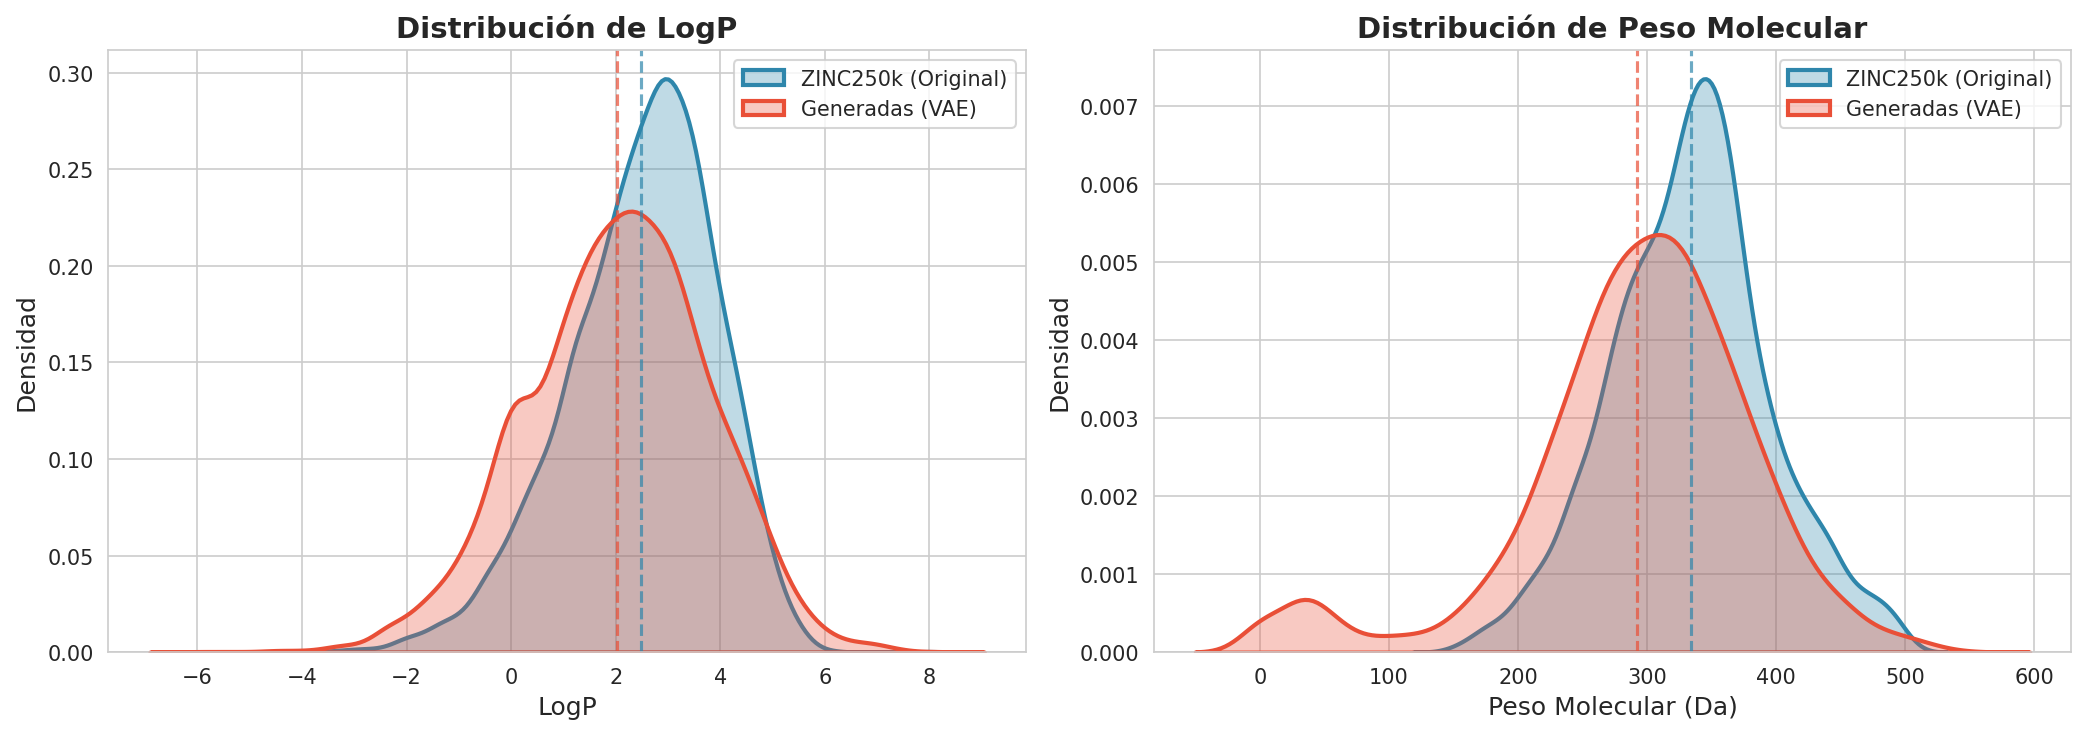
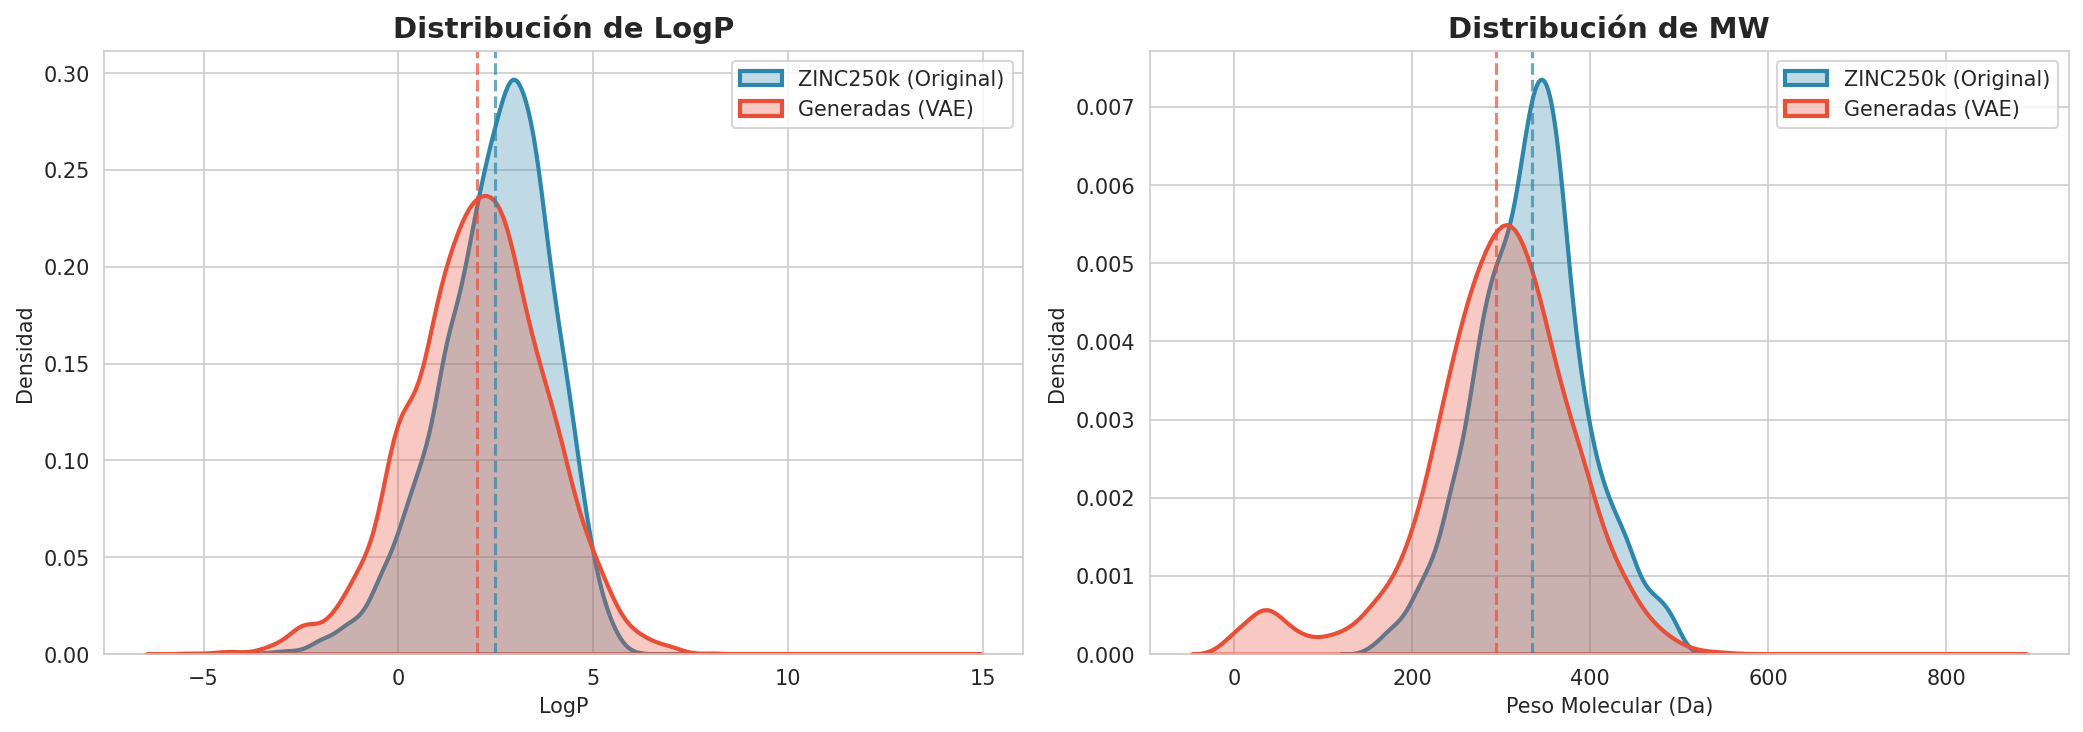
Refactor analysis and generation scripts for improved structure and readability

diff --git a/src/analisis_resultados.py b/src/analisis_resultados.py
@@ -24,7 +24,7 @@ RDLogger.DisableLog('rdApp.*')
 # --- CONFIGURACIÓN ---
 MODEL_PATH = os.path.join(ROOT_DIR, "models", "vae_model.pth")
 ZINC_PATH = os.path.join(ROOT_DIR, "data", "zinc250k.csv")
-NUM_GENERATED = 5000      # Número de moléculas a generar
+NUM_GENERATED = 30000      # Número de moléculas a generar
 MAX_LEN = 100
 TEMP = 1.0
 DEVICE = torch.device("cuda" if torch.cuda.is_available() else "cpu")
